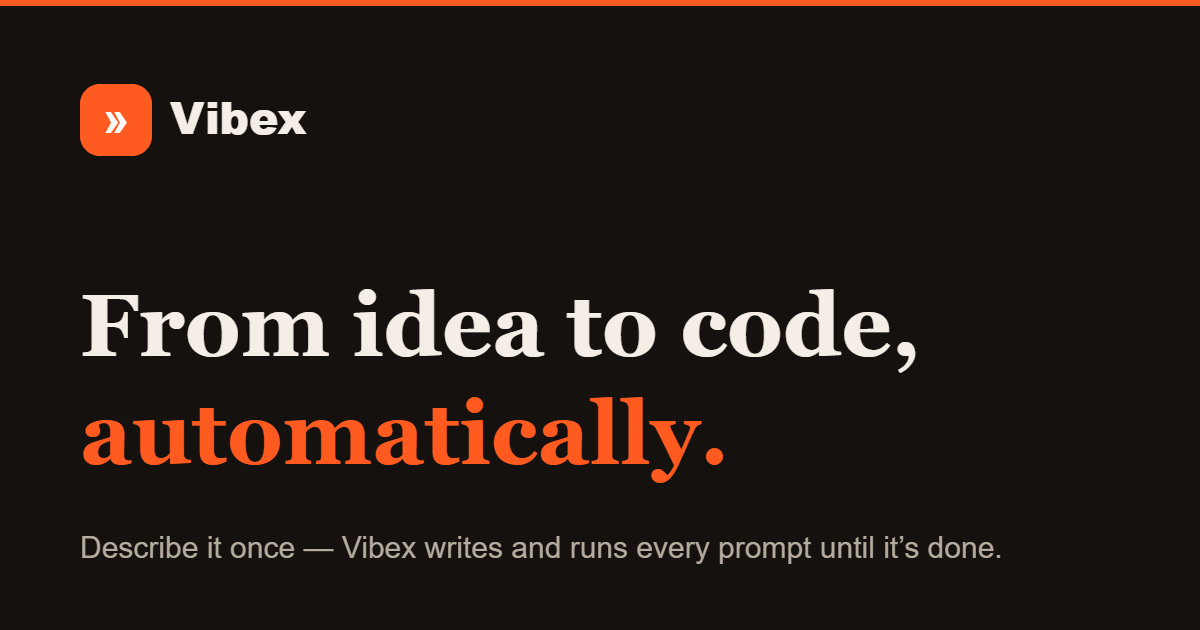
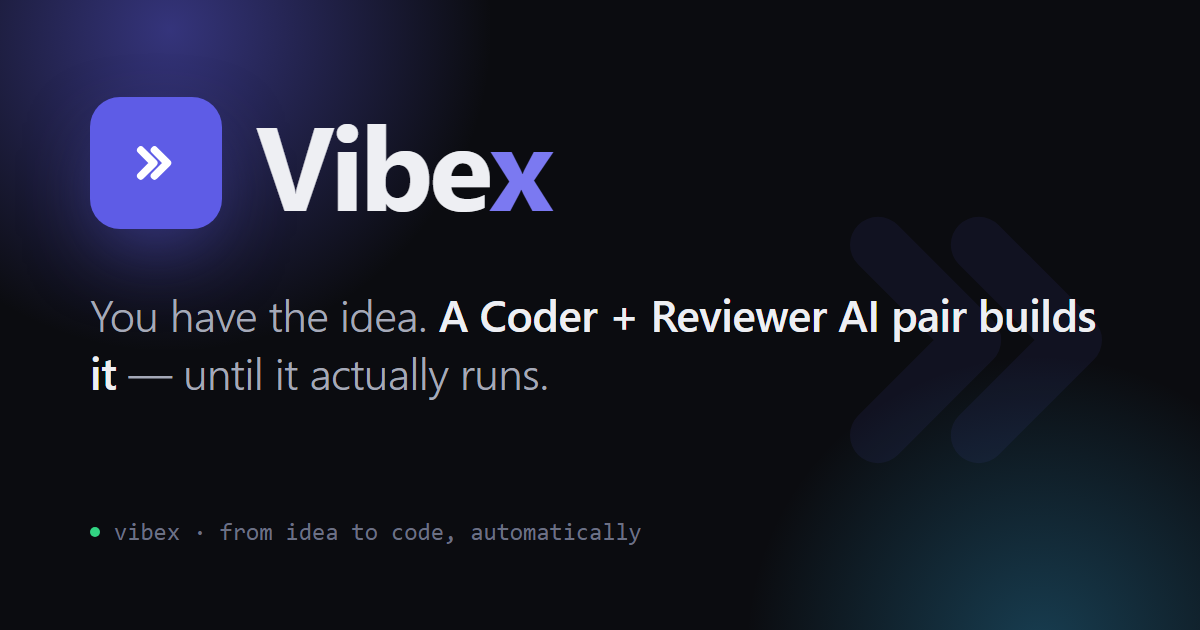
Polish sweep 3: og.png joins the rebrand
The social-share card was the last surface still wearing the original
orange identity. New 1200x630 card rendered via offscreen Electron
(desktop/scripts/render-og.js, same pipeline as the app icon):
graphite ground with indigo + cyan glows, indigo mark with white
chevrons, Vibex wordmark, value-prop tagline, chevron watermark, mono
footer. Re-run the script any time the brand moves again.

App-screens sweep (dashboard, result shell, dark): new identity holds
everywhere — indigo primaries, graphite panels, Space Grotesk
headings. No stragglers found. Tests green.

Changed region(s): [[0.0, 0.0, 1.0, 0.7841], [0.0617, 0.6032, 1.0, 1.0]]

diff --git a/desktop/scripts/render-og.js b/desktop/scripts/render-og.js
@@ -1,0 +1,74 @@
+// Renders public/og.png (1200x630 social card) in the current brand — graphite ground,
+// indigo mark, porcelain type. Run: npx electron scripts/render-og.js  (from desktop/)
+
+const { app, BrowserWindow } = require("electron");
+const { writeFileSync } = require("node:fs");
+const path = require("node:path");
+
+app.commandLine.appendSwitch("force-device-scale-factor", "1");
+app.disableHardwareAcceleration();
+
+const html = `<!doctype html><html><head><style>
+  * { margin: 0; box-sizing: border-box; }
+  body {
+    width: 1200px; height: 630px; overflow: hidden; position: relative;
+    background: #0B0C10;
+    font-family: "Segoe UI", system-ui, sans-serif;
+    color: #EEEFF3;
+  }
+  .glow1 { position: absolute; width: 700px; height: 700px; top: -320px; left: -180px; border-radius: 50%;
+    background: radial-gradient(circle, rgba(94,92,230,0.5), transparent 65%); }
+  .glow2 { position: absolute; width: 640px; height: 640px; bottom: -340px; right: -160px; border-radius: 50%;
+    background: radial-gradient(circle, rgba(56,189,248,0.28), transparent 65%); }
+  .watermark { position: absolute; right: -70px; top: 60px; opacity: 0.08; }
+  .card { position: relative; height: 100%; padding: 84px 90px; display: flex; flex-direction: column; }
+  .brand { display: flex; align-items: center; gap: 34px; }
+  .mark { width: 132px; height: 132px; border-radius: 30px; background: #5E5CE6;
+    display: grid; place-items: center; box-shadow: 0 30px 80px -20px rgba(94,92,230,0.55); }
+  .word { font-size: 118px; font-weight: 700; letter-spacing: -0.035em; }
+  .word b { color: #7B79F1; font-weight: 700; }
+  .tag { margin-top: 44px; font-size: 44px; font-weight: 350; color: #A5A9B8; letter-spacing: -0.01em; }
+  .tag b { color: #EEEFF3; font-weight: 600; }
+  .foot { margin-top: auto; display: flex; align-items: center; gap: 14px;
+    font-family: Consolas, ui-monospace, monospace; font-size: 24px; color: #6B7084; }
+  .dot { width: 10px; height: 10px; border-radius: 50%; background: #32D583; }
+</style></head><body>
+  <div class="glow1"></div><div class="glow2"></div>
+  <svg class="watermark" width="560" height="560" viewBox="0 0 100 100" fill="none">
+    <g stroke="#5E5CE6" stroke-width="10" stroke-linecap="round" stroke-linejoin="round">
+      <path d="M30 33 L47 50 L30 67"/><path d="M48 33 L65 50 L48 67"/>
+    </g>
+  </svg>
+  <div class="card">
+    <div class="brand">
+      <div class="mark">
+        <svg width="76" height="76" viewBox="0 0 100 100" fill="none">
+          <g stroke="#FFFFFF" stroke-width="10" stroke-linecap="round" stroke-linejoin="round">
+            <path d="M30 33 L47 50 L30 67"/><path d="M48 33 L65 50 L48 67"/>
+          </g>
+        </svg>
+      </div>
+      <div class="word">Vibe<b>x</b></div>
+    </div>
+    <div class="tag">You have the idea. <b>A Coder + Reviewer AI pair builds it</b> — until it actually runs.</div>
+    <div class="foot"><span class="dot"></span> vibex · from idea to code, automatically</div>
+  </div>
+</body></html>`;
+
+app.whenReady().then(async () => {
+  const win = new BrowserWindow({
+    show: false,
+    width: 1200,
+    height: 630,
+    useContentSize: true,
+    frame: false,
+    webPreferences: { offscreen: true },
+  });
+  await win.loadURL("data:text/html;charset=utf-8," + encodeURIComponent(html));
+  await new Promise((r) => setTimeout(r, 500));
+  const image = await win.webContents.capturePage({ x: 0, y: 0, width: 1200, height: 630 });
+  const out = path.join(__dirname, "..", "..", "public", "og.png");
+  writeFileSync(out, image.toPNG());
+  console.log("og.png rendered:", image.getSize(), "->", out);
+  app.quit();
+});
